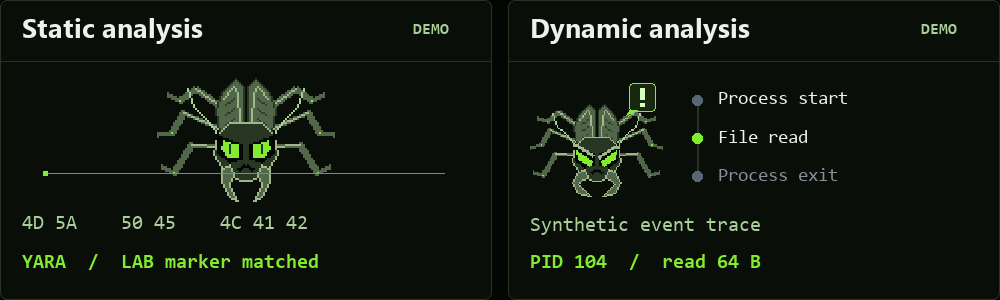
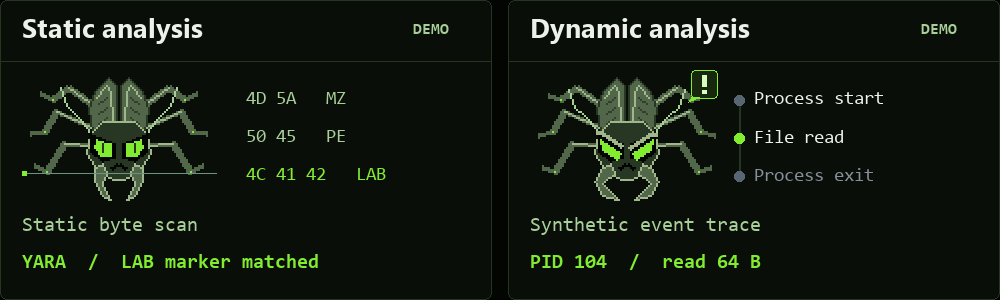
Align lab cards and render both beetles at native scale

Changed region(s): [[0.0, 0.27, 0.434, 0.66], [0.527, 0.21, 0.899, 0.66], [0.0, 0.72, 0.31, 0.78]]

diff --git a/scripts/render_lab.py b/scripts/render_lab.py
@@ -68,6 +68,8 @@ def specimen(phase, reaction='idle'):
 
 
 def analysis_demos():
+    right = 508
+    sprite_x, sprite_y = 22, 69
     frames = []
     for i in range(48):
         phase = math.tau*i/48
@@ -79,30 +81,32 @@ def analysis_demos():
             label(d,(left+413,24),'DEMO',16,PHOSPHOR,True,True)
             d.line((left+1,61,left+490,61),fill=LINE)
         sample = specimen(0)
-        im.paste(sample,(149,70),sample)
+        im.paste(sample,(sprite_x,sprite_y),sample)
         y = 83 + round(105*(1-math.cos(phase))/2)
-        d.line((47,y,444,y),fill='#689581')
-        d.rectangle((43,y-2,47,y+2),fill=LIME)
-        label(d,(22,216),'4D 5A    50 45    4C 41 42',20,PHOSPHOR,False,True)
+        d.line((22,y,216,y),fill='#689581')
+        d.rectangle((22,y-2,26,y+2),fill=LIME)
+        for j, value in enumerate(('4D 5A   MZ', '50 45   PE', '4C 41 42   LAB')):
+            label(d,(246,92+j*38),value,19,LIME if y>149 and j==2 else PHOSPHOR,False,True)
+        label(d,(22,216),'Static byte scan',20,PHOSPHOR,False,True)
         label(d,(22,254),'YARA  /  '+('LAB marker matched' if y>149 else 'scanning bytes'),20,LIME,True,True)
 
         stage = min(i//12,2)
         reaction = ('idle','alert','offline')[stage]
-        sample = specimen(phase,reaction).resize((144,102),Image.Resampling.NEAREST)
+        sample = specimen(phase,reaction)
         recoil = {12:-6,13:-4,14:-2}.get(i,0)
-        im.paste(sample,(524+recoil,98+recoil),sample)
+        im.paste(sample,(right+sprite_x+recoil,sprite_y+recoil),sample)
         if stage == 1:
-            top = 80 + min(i-12,3)
-            d.rounded_rectangle((629,top,655,top+28),radius=4,fill='#18280e',outline='#82ed30')
-            d.polygon([(630,top+26),(626,top+32),(637,top+27)],fill='#82ed30')
-            d.rectangle((640,top+5,644,top+16),fill='#d4ffc1')
-            d.rectangle((640,top+20,644,top+23),fill='#d4ffc1')
+            top = 67 + min(i-12,3)
+            d.rounded_rectangle((691,top,717,top+28),radius=4,fill='#18280e',outline='#82ed30')
+            d.polygon([(692,top+26),(688,top+32),(699,top+27)],fill='#82ed30')
+            d.rectangle((702,top+5,706,top+16),fill='#d4ffc1')
+            d.rectangle((702,top+20,706,top+23),fill='#d4ffc1')
         for j,event in enumerate(('Process start','File read','Process exit')):
             row = 99+j*38
             if j<2:
-                d.line((697,row+5,697,row+38),fill=LINE,width=2)
-            d.ellipse((692,row-4,702,row+6),fill=LIME if j==stage else '#586674')
-            label(d,(718,row-7),event,19,WHITE if j<=stage else '#86909a',False,True)
+                d.line((739,row+5,739,row+38),fill=LINE,width=2)
+            d.ellipse((734,row-4,744,row+6),fill=LIME if j==stage else '#586674')
+            label(d,(754,row-7),event,19,WHITE if j<=stage else '#86909a',False,True)
         label(d,(530,216),'Synthetic event trace',20,PHOSPHOR,False,True)
         label(d,(530,254),('PID 104  /  started','PID 104  /  read 64 B','PID 104  /  exited')[stage],20,LIME,True,True)
         frames.append(im)

diff --git a/README.md b/README.md
@@ -110,8 +110,8 @@ Open a project to explore its source.
 ## Malware analysis lab
 
 <picture>
-  <source media="(prefers-reduced-motion: reduce)" srcset="assets/malware-beetle.png" />
-  <img src="assets/malware-beetle.gif" width="100%" alt="Two illustrated demos. Static analysis scans an armored pixel-art beetle for a YARA marker. In the dynamic demo the beetle recoils, narrows its eyes and displays an exclamation mark on file read and its eyes dim on process exit." />
+  <source media="(prefers-reduced-motion: reduce)" srcset="assets/malware-beetle.png?v=2" />
+  <img src="assets/malware-beetle.gif?v=2" width="100%" alt="Two illustrated demos. Static analysis scans an armored pixel-art beetle for a YARA marker. In the dynamic demo the beetle recoils, narrows its eyes and displays an exclamation mark on file read and its eyes dim on process exit." />
 </picture>
 
 <picture>
